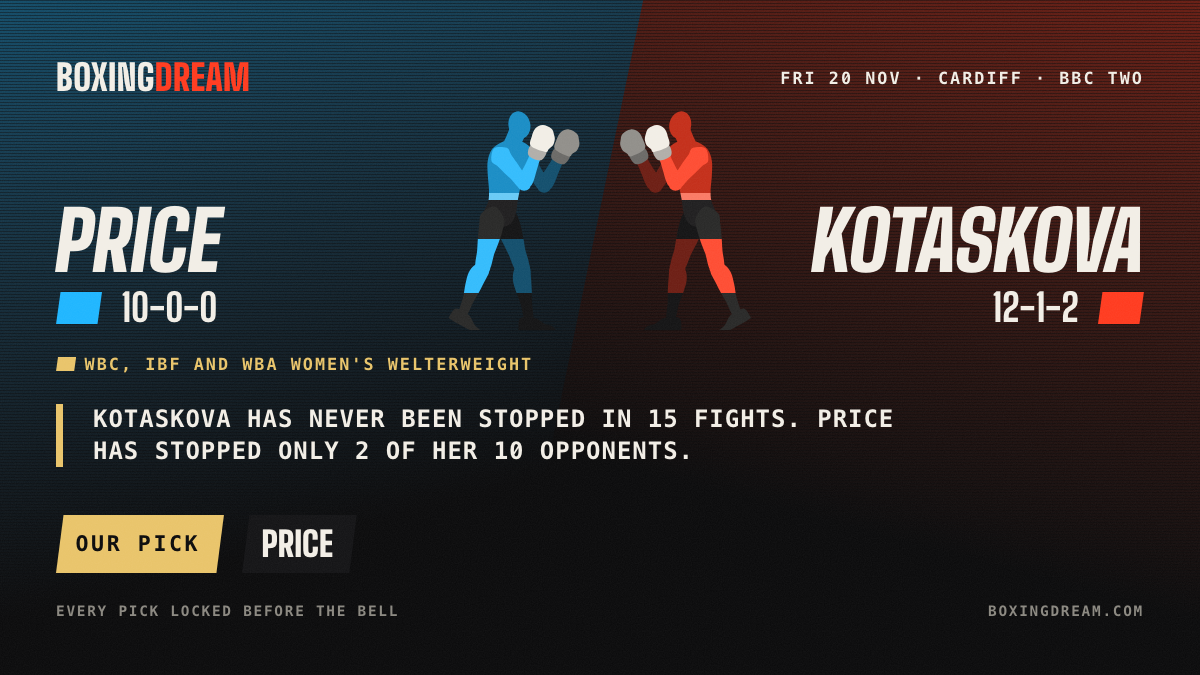
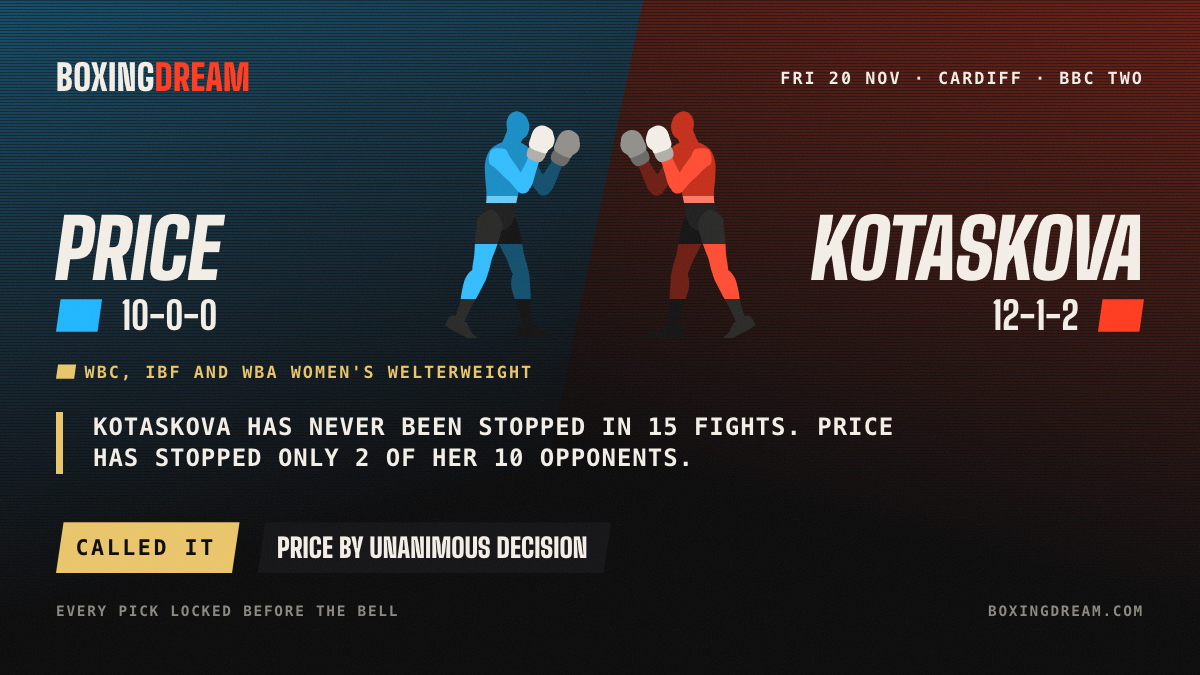
Daily update 2026-11-22; settled 2026-11-20-price-kotaskova bout(s) [1]

diff --git a/index.html b/index.html
@@ -196,10 +196,10 @@ footer p { margin: 0 0 8px; max-width: 70ch; }
 </section>
 
 <section class="record" aria-label="Track record">
-  <div class="big">41&ndash;11</div>
+  <div class="big">42&ndash;11</div>
   <div>
     <p class="mono" style="color:var(--paper);margin:0">Our record</p>
-    <p>Every pick is locked before the opening bell and graded after the fight. Nothing is edited or deleted, and the full ledger is public. 4 picks awaiting results.</p>
+    <p>Every pick is locked before the opening bell and graded after the fight. Nothing is edited or deleted, and the full ledger is public. 3 picks awaiting results.</p>
   </div>
   <a class="mono" href="record/">See every pick &rarr;</a>
 </section>
@@ -239,7 +239,8 @@ footer p { margin: 0 0 8px; max-width: 70ch; }
   <span class="tile-body">
     <span class="tile-when mono">Fri 20 Nov · Cardiff, Wales, UK</span>
     <span class="tile-t">Price vs Kotaskova</span>
-<span class="tile-p">Our pick <b>Price</b></span>    <span class="tile-btn mono">See the results &rarr;</span>
+<span class="tile-p">Lauren Price by unanimous decision<span class="tile-g mono hit">Called it</span></span>
+    <span class="tile-btn mono">See the results &rarr;</span>
   </span>
 </a><a class="tile" href="cards/2026-11-14-pacheco-fulghum/">
   <span class="tile-art" aria-hidden="true"><span class="ta"></span><span class="tb"></span><span class="tile-figs"><svg class="fig fig-a" viewBox="0 0 632.1 1000" preserveAspectRatio="xMidYMax meet" aria-hidden="true"><defs><linearGradient id="tile-2026-11-14-pacheco-fulghum-a-t" gradientUnits="userSpaceOnUse" x1="0" y1="1000" x2="0" y2="-36.3"><stop offset="0.000" stop-color="#201F20"/><stop offset="0.575" stop-color="#201F20"/><stop offset="0.575" stop-color="#69CAF6"/><stop offset="0.605" stop-color="#69CAF6"/><stop offset="0.605" stop-color="#1A8DC5"/><stop offset="1.000" stop-color="#1A8DC5"/></linearGradient><linearGradient id="tile-2026-11-14-pacheco-fulghum-a-far" gradientUnits="userSpaceOnUse" x1="0" y1="1000" x2="0" y2="-36.3"><stop offset="0.000" stop-color="#141415"/><stop offset="0.165" stop-color="#141415"/><stop offset="0.165" stop-color="#134F6D"/><stop offset="0.400" stop-color="#134F6D"/><stop offset="0.400" stop-color="#141415"/><stop offset="1.000" stop-color="#141415"/></linearGradient><linearGradient id="tile-2026-11-14-pacheco-fulghum-a-near" gradientUnits="userSpaceOnUse" x1="0" y1="1000" x2="0" y2="-36.3"><stop offset="0.000" stop-color="#292928"/><stop offset="0.165" stop-color="#292928"/><stop offset="0.165" stop-color="#34BCFC"/><stop offset="0.400" stop-color="#34BCFC"/><stop offset="0.400" stop-color="#292928"/><stop offset="1.000" stop-color="#292928"/></linearGradient></defs><path d="M220 436C237 439 257 470 263 487C270 503 264 518 260 535C257 553 249 575 242 594C236 613 228 630 220 651C213 673 209 707 199 722C189 737 171 744 161 742C150 740 137 726 134 709C131 691 140 658 142 636C144 614 144 595 146 575C147 555 150 532 152 514C155 496 150 480 162 467C173 454 203 433 220 436ZM177 690C187 694 197 715 197 728C198 742 187 755 180 770C172 785 163 803 154 820C145 837 136 851 126 869C116 888 105 919 96 930C87 941 78 939 72 937C65 934 58 929 59 914C60 900 73 870 78 849C83 829 84 811 88 792C92 773 96 753 103 737C111 722 121 709 133 701C146 693 166 685 177 690ZM191 741C185 747 174 751 166 751C157 751 146 747 140 741C134 735 130 724 130 715C130 706 134 695 140 689C146 683 157 679 166 679C174 679 185 683 191 689C197 695 202 706 202 715C202 724 197 735 191 741ZM26 953C4 939 15 942 18 933C22 924 33 901 47 900C62 900 90 918 104 930C118 943 123 965 131 976C140 988 150 992 155 998C160 1005 162 1012 161 1016C160 1019 171 1029 149 1019C126 1008 48 968 26 953Z" fill="url(#tile-2026-11-14-pacheco-fulghum-a-far)"/><path d="M220 170C232 160 264 163 277 168C290 173 289 187 297 198C305 210 314 223 323 236C331 248 339 259 349 273C358 286 377 303 381 316C385 329 381 346 374 352C366 359 349 360 336 353C324 347 311 326 299 314C288 302 277 293 266 283C256 272 244 260 234 251C225 242 210 240 207 227C205 213 208 179 220 170ZM330 323C328 312 335 303 340 292C345 281 353 268 359 255C366 243 371 232 378 219C384 205 389 182 397 173C405 164 420 161 428 164C435 167 443 180 443 192C443 204 431 224 427 238C422 253 419 265 415 278C411 291 408 306 404 317C399 329 396 340 387 346C378 353 359 362 349 358C340 354 331 334 330 323ZM381 357C376 363 366 367 359 367C351 367 341 363 336 357C331 352 326 342 326 335C326 327 331 317 336 312C341 307 351 303 359 303C366 303 376 307 381 312C387 317 391 327 391 335C391 342 387 352 381 357Z" fill="#134F6D"/><path d="M380 202C373 190 382 157 395 153C409 148 455 165 461 177C468 189 450 221 436 225C423 229 387 214 380 202Z" fill="#6B6A67"/><path d="M391 160C381 148 391 130 394 116C398 103 403 88 412 79C420 70 434 63 446 63C458 64 476 73 484 80C492 87 493 98 496 106C498 114 500 122 500 130C499 138 496 148 491 156C487 163 478 167 472 172C466 178 470 188 457 186C443 184 402 171 391 160Z" fill="#918F8A"/><path d="M174 513C164 502 167 483 170 466C174 449 188 430 193 411C197 393 196 379 196 358C195 336 191 307 190 285C189 263 187 242 191 223C194 204 202 184 212 171C223 158 239 149 254 142C268 135 287 132 301 132C316 131 329 133 342 138C355 143 372 151 381 163C391 175 399 194 399 210C400 226 391 245 384 259C377 273 363 281 355 295C348 310 345 328 340 347C335 366 331 389 327 409C324 430 324 453 317 472C311 490 303 508 289 518C274 528 249 532 230 532C211 531 184 524 174 513ZM255 161C253 150 260 149 263 142C267 135 270 126 274 119C277 111 280 104 284 95C288 87 287 74 297 67C307 61 332 50 344 55C356 60 365 87 367 98C368 110 358 118 354 126C350 135 347 142 344 150C340 158 337 166 333 173C330 180 334 187 325 192C316 197 289 209 278 204C266 199 257 171 255 161Z" fill="url(#tile-2026-11-14-pacheco-fulghum-a-t)"/><ellipse cx="334.7" cy="64.2" rx="49.7" ry="63.2" transform="rotate(-12 334.7 64.2)" fill="#1A8DC5"/><path d="M251 438C267 432 299 448 313 460C327 471 329 487 336 505C342 523 346 546 350 567C355 588 357 607 361 630C366 653 380 685 379 704C379 722 367 737 356 741C346 744 328 740 317 726C305 711 296 677 286 656C276 635 267 618 258 599C248 580 239 559 232 541C225 524 212 511 215 494C218 476 234 443 251 438ZM344 688C355 686 374 699 381 711C388 722 386 740 387 757C389 775 390 796 391 816C392 836 391 853 393 875C394 897 400 931 398 946C396 960 387 963 380 964C374 965 364 965 358 951C351 937 347 903 341 882C335 861 326 844 320 825C314 806 306 786 305 768C304 750 306 733 312 720C319 706 332 689 344 688ZM373 741C367 747 356 751 347 751C339 751 328 747 322 741C315 735 311 724 311 715C311 706 315 695 322 689C328 683 339 679 347 679C356 679 367 683 373 689C379 695 383 706 383 715C383 724 379 735 373 741ZM347 1000C321 998 332 995 331 985C330 976 328 950 341 943C353 936 387 938 405 943C423 948 438 965 451 971C464 977 474 976 482 979C489 983 495 988 495 992C496 995 511 999 486 1000C461 1001 373 1002 347 1000Z" fill="url(#tile-2026-11-14-pacheco-fulghum-a-near)"/><path d="M326 168C339 159 371 165 383 171C395 177 394 191 400 203C407 215 415 229 423 242C430 255 437 267 445 282C454 296 471 314 474 328C477 341 471 358 463 363C455 369 438 368 426 361C414 353 403 331 393 318C382 306 372 296 362 285C353 273 342 260 333 250C324 240 310 237 308 224C307 210 314 176 326 168ZM422 330C422 319 430 310 436 300C442 289 451 277 459 265C466 254 473 244 481 231C488 218 496 196 505 188C514 180 529 178 536 182C543 186 550 199 549 211C547 223 534 242 527 256C521 269 517 281 512 294C507 306 502 321 496 332C491 343 487 353 477 359C468 365 447 371 438 366C429 361 423 341 422 330ZM473 367C467 372 457 376 450 376C442 376 432 372 427 367C422 362 418 352 418 344C418 337 422 327 427 322C432 316 442 312 450 312C457 312 467 316 473 322C478 327 482 337 482 344C482 352 478 362 473 367Z" fill="#34BCFC"/><path d="M485 215C479 202 491 170 505 167C519 164 563 185 569 198C574 211 553 241 539 243C525 246 490 227 485 215Z" fill="#B1AEA9"/><path d="M501 174C491 161 503 144 508 131C513 118 520 103 529 95C539 87 553 82 565 84C577 85 594 96 601 104C609 112 608 123 610 131C612 140 613 147 611 155C610 163 606 173 601 180C595 187 586 190 580 195C573 199 576 210 563 207C550 203 510 186 501 174Z" fill="#F2EEE6"/></svg><svg class="fig fig-b" viewBox="0 0 632.1 1000" preserveAspectRatio="xMidYMax meet" aria-hidden="true"><defs><linearGradient id="tile-2026-11-14-pacheco-fulghum-b-t" gradientUnits="userSpaceOnUse" x1="0" y1="1000" x2="0" y2="6.7"><stop offset="0.000" stop-color="#201F20"/><stop offset="0.575" stop-color="#201F20"/><stop offset="0.575" stop-color="#FA7A65"/><stop offset="0.605" stop-color="#FA7A65"/><stop offset="0.605" stop-color="#C42F1A"/><stop offset="1.000" stop-color="#C42F1A"/></linearGradient><linearGradient id="tile-2026-11-14-pacheco-fulghum-b-far" gradientUnits="userSpaceOnUse" x1="0" y1="1000" x2="0" y2="6.7"><stop offset="0.000" stop-color="#141415"/><stop offset="0.165" stop-color="#141415"/><stop offset="0.165" stop-color="#6D1E14"/><stop offset="0.400" stop-color="#6D1E14"/><stop offset="0.400" stop-color="#141415"/><stop offset="1.000" stop-color="#141415"/></linearGradient><linearGradient id="tile-2026-11-14-pacheco-fulghum-b-near" gradientUnits="userSpaceOnUse" x1="0" y1="1000" x2="0" y2="6.7"><stop offset="0.000" stop-color="#292928"/><stop offset="0.165" stop-color="#292928"/><stop offset="0.165" stop-color="#FE4D33"/><stop offset="0.400" stop-color="#FE4D33"/><stop offset="0.400" stop-color="#292928"/><stop offset="1.000" stop-color="#292928"/></linearGradient></defs><path d="M416 515C419 531 406 544 400 560C393 577 384 598 375 616C367 634 357 650 348 670C338 691 330 723 318 737C307 750 291 755 281 752C271 748 259 734 258 716C257 698 271 667 276 645C280 623 282 605 286 585C290 565 294 543 300 526C306 509 308 493 322 482C335 471 366 455 382 461C397 466 413 498 416 515ZM323 731C329 744 331 761 330 778C328 795 321 814 315 833C309 851 301 867 295 887C289 907 285 940 279 953C273 966 264 966 257 965C251 964 243 962 241 948C239 934 245 901 246 880C247 860 246 842 247 824C248 805 249 784 251 767C252 750 250 734 257 723C264 711 282 699 293 701C304 702 317 718 323 731ZM255 727C255 719 259 708 265 702C270 696 281 692 289 692C297 692 308 696 314 702C320 708 324 719 324 727C324 735 320 746 314 751C308 757 297 762 289 762C281 762 270 757 265 751C259 746 255 735 255 727ZM156 1000C132 999 147 995 147 992C148 989 153 983 160 980C167 977 178 978 190 972C202 966 216 950 234 945C251 941 283 939 295 945C307 952 306 977 305 986C304 995 314 998 289 1000C264 1002 180 1001 156 1000Z" fill="url(#tile-2026-11-14-pacheco-fulghum-b-far)"/><path d="M326 256C325 269 311 271 303 281C294 290 285 302 275 313C266 324 257 333 247 345C237 357 227 377 216 384C205 391 188 392 180 387C173 381 167 365 170 353C173 340 189 323 197 309C205 296 211 285 218 272C225 260 232 247 239 236C245 224 243 211 255 206C267 200 297 194 309 202C321 211 327 243 326 256ZM204 390C195 394 176 388 167 382C157 377 154 367 149 357C143 347 139 333 134 321C129 309 125 298 120 285C114 273 101 255 100 244C98 232 105 219 112 216C119 212 133 214 142 221C150 229 157 250 164 262C171 274 178 283 185 294C192 305 201 316 207 326C212 336 220 344 219 355C219 365 213 385 204 390ZM162 369C162 361 166 352 171 347C176 342 186 338 193 338C200 338 210 342 215 347C220 352 224 361 224 369C224 376 220 385 215 390C210 395 200 399 193 399C186 399 176 395 171 390C166 385 162 376 162 369Z" fill="#6D1E14"/><path d="M109 275C96 272 75 244 81 231C86 219 128 199 141 201C155 204 166 235 161 247C156 259 123 277 109 275Z" fill="#6B6A67"/><path d="M86 240C73 243 76 232 70 228C64 224 55 220 50 214C45 208 41 198 40 190C38 182 39 175 41 167C42 159 42 149 49 141C57 133 73 123 84 121C96 120 109 125 118 133C127 140 134 154 139 167C143 179 155 196 146 208C137 220 99 236 86 240Z" fill="#918F8A"/><path d="M401 551C383 552 359 548 345 538C332 529 324 511 318 493C312 476 312 454 308 434C305 414 301 392 296 374C292 356 288 339 281 325C274 310 261 303 254 290C247 276 239 258 239 243C240 228 248 209 257 197C266 186 281 179 294 174C307 169 319 167 333 168C347 168 365 171 379 178C393 184 408 192 418 205C428 218 436 237 439 255C443 273 441 293 440 315C439 336 435 364 434 384C434 404 433 418 437 436C442 453 456 472 459 488C462 505 465 523 455 533C446 544 420 550 401 551ZM356 237C345 242 319 230 310 225C301 220 305 214 302 207C299 201 296 192 292 185C289 178 286 171 283 163C279 154 269 147 271 136C272 124 281 99 292 94C303 89 328 100 338 106C347 112 346 125 350 133C353 141 356 148 360 155C363 163 367 171 370 178C373 184 380 185 377 195C375 205 367 232 356 237Z" fill="url(#tile-2026-11-14-pacheco-fulghum-b-t)"/><ellipse cx="301.2" cy="103" rx="47.7" ry="60.6" transform="rotate(12 301.2 103)" fill="#C42F1A"/><path d="M467 489C478 501 474 517 476 535C479 552 481 573 482 593C484 612 484 630 486 651C488 673 496 704 493 721C490 738 479 751 468 753C458 755 441 748 431 733C421 719 418 686 411 666C404 646 396 629 390 611C383 592 376 572 373 555C369 538 363 524 370 508C376 492 395 463 411 459C427 456 456 476 467 489ZM494 714C506 721 516 734 523 748C530 763 534 783 538 801C542 819 542 836 547 855C552 875 565 904 566 918C567 932 559 937 553 939C547 942 539 944 530 933C521 922 510 892 501 875C492 857 483 843 475 828C466 812 457 794 450 779C443 765 432 752 433 740C433 727 443 707 453 703C463 698 482 706 494 714ZM428 727C428 719 433 708 439 702C444 696 455 692 463 692C471 692 482 696 488 702C493 708 498 719 498 727C498 735 493 746 488 751C482 757 471 762 463 762C455 762 444 757 439 751C433 746 428 735 428 727ZM480 1018C458 1028 469 1018 468 1015C467 1012 469 1005 474 998C479 992 488 988 496 977C504 967 509 945 522 933C536 921 563 904 577 904C590 905 601 927 605 936C608 944 618 942 597 955C576 969 501 1008 480 1018Z" fill="url(#tile-2026-11-14-pacheco-fulghum-b-near)"/><path d="M423 259C421 272 407 273 398 282C389 290 378 302 368 311C357 321 348 330 337 341C326 352 314 371 302 377C290 383 273 383 266 377C259 371 255 354 259 342C263 329 280 314 290 301C299 288 306 278 314 266C322 254 331 242 338 231C345 221 344 207 356 203C369 198 400 195 411 204C422 213 426 246 423 259ZM289 382C280 385 262 377 253 371C244 364 242 354 238 344C233 333 231 319 227 306C223 294 221 283 216 269C212 256 201 237 201 226C201 214 208 202 216 199C223 196 237 199 245 208C253 216 257 237 263 250C269 263 275 273 280 285C286 296 294 308 298 319C303 330 310 338 308 348C307 359 299 378 289 382ZM250 360C250 352 254 343 259 338C264 333 273 329 281 329C288 329 297 333 302 338C307 343 311 352 311 360C311 367 307 376 302 381C297 386 288 390 281 390C273 390 264 386 259 381C254 376 250 367 250 360Z" fill="#FE4D33"/><path d="M207 257C194 253 177 223 183 211C190 200 234 184 247 188C260 192 268 224 261 235C255 247 220 261 207 257Z" fill="#B1AEA9"/><path d="M188 220C175 222 178 212 173 207C167 202 159 198 155 191C150 184 147 174 147 166C146 158 148 151 150 143C153 135 154 125 162 118C170 112 187 103 198 103C210 102 223 109 231 117C239 126 244 140 248 153C251 166 260 184 250 195C241 206 201 218 188 220Z" fill="#F2EEE6"/></svg></span></span>

diff --git a/record/index.html b/record/index.html
@@ -130,10 +130,10 @@ details.fine p { margin: 12px 0 0; max-width: 40em; }
   </nav>
 </header>
 <main class="wrap">
-  <h1>41&ndash;11</h1>
+  <h1>42&ndash;11</h1>
   <p class="kick mono">Our record · 79% called</p>
   <p class="sum">Every pick is locked before the opening bell and graded after the fight. Nothing is edited or deleted, and the <a href="../picks.jsonl">full ledger</a> is public.</p>
-  <div class="strip" role="img" aria-label="41 called and 11 missed, oldest first"><i class="hit"></i><i class="hit"></i><i class="hit"></i><i class="hit"></i><i class="hit"></i><i class="hit"></i><i class="hit"></i><i class="hit"></i><i class="hit"></i><i class="hit"></i><i class="hit"></i><i class="hit"></i><i class="hit"></i><i class="hit"></i><i class="hit"></i><i class="hit"></i><i class="hit"></i><i class="miss"></i><i class="hit"></i><i class="hit"></i><i class="hit"></i><i class="miss"></i><i class="miss"></i><i class="hit"></i><i class="hit"></i><i class="hit"></i><i class="hit"></i><i class="miss"></i><i class="miss"></i><i class="miss"></i><i class="hit"></i><i class="hit"></i><i class="hit"></i><i class="hit"></i><i class="hit"></i><i class="hit"></i><i class="hit"></i><i class="hit"></i><i class="hit"></i><i class="hit"></i><i class="miss"></i><i class="miss"></i><i class="hit"></i><i class="miss"></i><i class="hit"></i><i class="hit"></i><i class="hit"></i><i class="hit"></i><i class="miss"></i><i class="hit"></i><i class="miss"></i><i class="hit"></i></div>
+  <div class="strip" role="img" aria-label="42 called and 11 missed, oldest first"><i class="hit"></i><i class="hit"></i><i class="hit"></i><i class="hit"></i><i class="hit"></i><i class="hit"></i><i class="hit"></i><i class="hit"></i><i class="hit"></i><i class="hit"></i><i class="hit"></i><i class="hit"></i><i class="hit"></i><i class="hit"></i><i class="hit"></i><i class="hit"></i><i class="hit"></i><i class="miss"></i><i class="hit"></i><i class="hit"></i><i class="hit"></i><i class="miss"></i><i class="miss"></i><i class="hit"></i><i class="hit"></i><i class="hit"></i><i class="hit"></i><i class="miss"></i><i class="miss"></i><i class="miss"></i><i class="hit"></i><i class="hit"></i><i class="hit"></i><i class="hit"></i><i class="hit"></i><i class="hit"></i><i class="hit"></i><i class="hit"></i><i class="hit"></i><i class="hit"></i><i class="miss"></i><i class="miss"></i><i class="hit"></i><i class="miss"></i><i class="hit"></i><i class="hit"></i><i class="hit"></i><i class="hit"></i><i class="miss"></i><i class="hit"></i><i class="miss"></i><i class="hit"></i><i class="hit"></i></div>
   <p class="legend mono"><span><i class="hit"></i>Called it</span><span><i class="miss"></i>Missed</span></p>
 
   <h2>Results</h2>
@@ -144,6 +144,9 @@ details.fine p { margin: 12px 0 0; max-width: 40em; }
 <span class="g void">Void</span></li><li>
   <span class="f"><a href="../cards/2026-11-20-price-kotaskova/">Rhys Edwards vs Lee McGregor</a></span>
   <span class="sub">Our pick <b>Rhys Edwards</b><span class="tag">by record</span> · 20 November 2026<br>Rhys Edwards by unanimous decision</span>
+<span class="g hit">Called it</span></li><li>
+  <span class="f"><a href="../cards/2026-11-20-price-kotaskova/">Lauren Price vs Michaela Kotaskova</a></span>
+  <span class="sub">Our pick <b>Lauren Price</b> · 20 November 2026<br>Lauren Price by unanimous decision</span>
 <span class="g hit">Called it</span></li><li>
   <span class="f"><a href="../cards/2026-11-14-pacheco-fulghum/">Anthony Olascuaga vs Yuberjen Martínez</a></span>
   <span class="sub">Our pick <b>Yuberjen Martínez</b><span class="tag">by record</span> · 14 November 2026<br>Anthony Olascuaga by unanimous decision</span>
@@ -338,11 +341,8 @@ details.fine p { margin: 12px 0 0; max-width: 40em; }
   <span class="sub">Our pick <b>Osleys Iglesias</b> · 8 October 2026<br>Osleys Iglesias by TKO, round 7<span class="fixed" title="This result line was corrected after it was published; the card page says what changed">corrected</span></span>
 <span class="g hit">Called it</span></li></ul>
   <h2>Awaiting results</h2>
-  <p class="mono">4 picks locked, fights still to come or results still to confirm</p>
+  <p class="mono">3 picks locked, fights still to come or results still to confirm</p>
   <ul class="rows"><li>
-  <span class="f"><a href="../cards/2026-11-20-price-kotaskova/">Lauren Price vs Michaela Kotaskova</a></span>
-  <span class="sub">Our pick <b>Lauren Price</b> · 20 November 2026</span>
-<span class="g wait">Locked 21 Oct</span></li><li>
   <span class="f"><a href="../cards/2026-11-20-price-kotaskova/">Kyran Jones vs Sean Arkwright</a></span>
   <span class="sub">Our pick <b>Kyran Jones</b><span class="tag">billed first</span> · 20 November 2026</span>
 <span class="g wait">Locked 18 Nov</span></li><li>
@@ -354,7 +354,7 @@ details.fine p { margin: 12px 0 0; max-width: 40em; }
 <span class="g wait">Locked 20 Nov</span></li></ul>
   <details class="fine">
     <summary class="mono">How the count works</summary>
-    <p>41 called, 11 missed (by record picks: 6 called, 3 missed; billed first picks: 13 called, 1 missed; narrow picks: 1 called, 0 missed), 1 push, 13 void (bout didn't take place), 4 awaiting results. Voids and pushes count neither way. A result needs two independent sources before it's graded.</p>
+    <p>42 called, 11 missed (by record picks: 6 called, 3 missed; billed first picks: 13 called, 1 missed; narrow picks: 1 called, 0 missed), 1 push, 13 void (bout didn't take place), 3 awaiting results. Voids and pushes count neither way. A result needs two independent sources before it's graded.</p>
   </details>
 </main>
 <div class="legal">

diff --git a/cards/2026-11-20-price-kotaskova/index.html b/cards/2026-11-20-price-kotaskova/index.html
@@ -375,7 +375,7 @@ main.wrap { padding-top: 24px; }
   <h2 id="card-title" class="sec-h">The card</h2>
   <p class="sec-sub mono">3 bouts · how every pick did · tap one to jump to it</p>
   <ol class="picklines">
-  <li><a href="#fight-1"><span class="pl-ab">Price <span class="v">v</span> Kotaskova</span><span class="pl-pk a">Price</span></a></li>
+  <li><a href="#fight-1"><span class="pl-ab">Price <span class="v">v</span> Kotaskova</span><span class="pl-pk a">Price</span><span class="pl-tg mono hit">Called it</span></a></li>
   <li><a href="#fight-2"><span class="pl-ab">Edwards <span class="v">v</span> McGregor</span><span class="pl-pk a">Edwards</span><span class="pl-tg mono hit">Called it</span></a></li>
   <li><a href="#fight-3"><span class="pl-ab">Jones <span class="v">v</span> Arkwright</span><span class="pl-pk a">Jones</span><span class="pl-tg mono">billed first</span></a></li>
 </ol>
@@ -410,11 +410,7 @@ main.wrap { padding-top: 24px; }
   <div class="call a">
     <span class="call-k mono">Our pick</span>
     <span class="call-v"><span class="lean">Price</span></span>
-<span class="call-t mono">Locked <time datetime="2026-10-21T16:52:32Z" title="21 Oct 2026, 16:52 UTC">21 Oct</time></span><div class="call-o mono">
-  <span class="k">Bookies</span>
-  <span class="w">agree: Price is the favorite</span>
-  <span class="t">Price −3316 · Kotaskova +1100 · median of 14 bookmakers via The Odds API, 20 Nov</span>
-</div>  </div>
+<span class="call-t mono">Locked <time datetime="2026-10-21T16:52:32Z" title="21 Oct 2026, 16:52 UTC">21 Oct</time></span><div class="call-r"><span class="call-k mono">Result</span><span class="res">Lauren Price by unanimous decision</span><span class="grade hit">Called it</span></div>  </div>
 
   <details class="numbers">
   <summary class="mono"><span><span class="show">See all the numbers</span><span class="hide">Hide the numbers</span></span><span class="what">Physical · Activity · Opposition · Power and chin · Experience · Style</span></summary>

diff --git a/boxing-this-weekend/index.html b/boxing-this-weekend/index.html
@@ -148,7 +148,7 @@ footer p { margin: 0 0 8px; max-width: 70ch; }
     <ul class="later"><li><span class="mono">Fri 11 Dec</span><a href="../cards/2026-12-11-fury-joshua/">Tyson Fury vs Anthony Joshua</a></li><li><span class="mono">Thu 24 Dec</span><a href="../cards/2026-12-24-paul-doumbe/">Jake Paul vs Cédric Doumbé</a></li></ul>
   </section>
 
-  <p class="rec"><b>41&ndash;11</b>our record so far. <a href="../record/">See every pick</a></p>
+  <p class="rec"><b>42&ndash;11</b>our record so far. <a href="../record/">See every pick</a></p>
 </main>
 <div class="legal">
   <p><b>18+.</b> Picks, stats and odds are for information and entertainment, not betting advice. We take no bets and earn nothing from bookmakers. If gambling stops being fun: 1-800-GAMBLER (US), <a href="https://www.begambleaware.org">BeGambleAware.org</a> (UK).</p>

diff --git a/cards/2026-11-28-kessler-joseph/index.html b/cards/2026-11-28-kessler-joseph/index.html
@@ -398,7 +398,11 @@ main.wrap { padding-top: 24px; }
     <span class="call-k mono">Our pick</span>
     <span class="call-v">Pending</span>
     <span class="call-t mono">Finding fight records · locks two days out at the latest</span>
-  </div>
+<div class="call-o mono">
+  <span class="k">Bookies</span>
+  <span class="w">favor Kessler</span>
+  <span class="t">Kessler −476 · Joseph +325 · median of 3 bookmakers via The Odds API, 22 Nov</span>
+</div>  </div>
 
   <details class="numbers">
   <summary class="mono"><span><span class="show">See all the numbers</span><span class="hide">Hide the numbers</span></span><span class="what">Physical · Activity · Opposition · Power and chin · Experience · Style</span></summary>

diff --git a/cards/2026-12-11-fury-joshua/index.html b/cards/2026-12-11-fury-joshua/index.html
@@ -414,7 +414,7 @@ main.wrap { padding-top: 24px; }
 <span class="call-t mono">Locked <time datetime="2026-10-19T03:07:28Z" title="19 Oct 2026, 03:07 UTC">19 Oct</time></span><div class="call-o mono">
   <span class="k">Bookies</span>
   <span class="w">agree: Fury is the favorite</span>
-  <span class="t">Fury −189 · Joshua +150 · median of 15 bookmakers via The Odds API, 21 Nov</span>
+  <span class="t">Fury −183 · Joshua +150 · median of 16 bookmakers via The Odds API, 22 Nov</span>
 </div>  </div>
 
   <details class="numbers">

diff --git a/cards/2026-12-24-paul-doumbe/index.html b/cards/2026-12-24-paul-doumbe/index.html
@@ -410,7 +410,7 @@ main.wrap { padding-top: 24px; }
 <div class="call-o mono">
   <span class="k">Bookies</span>
   <span class="w">favor Paul</span>
-  <span class="t">Paul −260 · Doumbé +205 · median of 12 bookmakers via The Odds API, 21 Nov</span>
+  <span class="t">Paul −260 · Doumbé +205 · median of 12 bookmakers via The Odds API, 22 Nov</span>
 </div>  </div>
 
   <details class="numbers">
